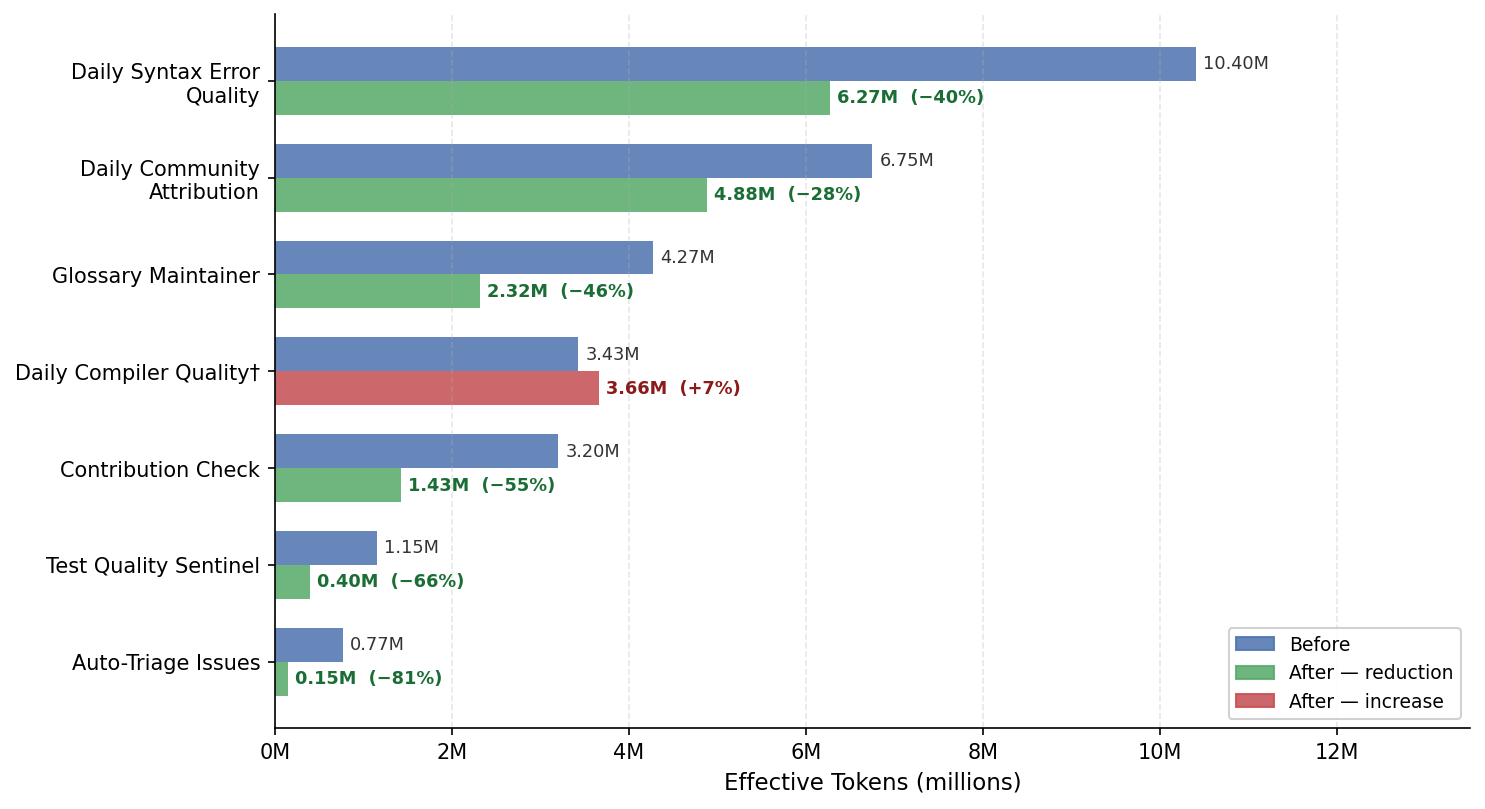
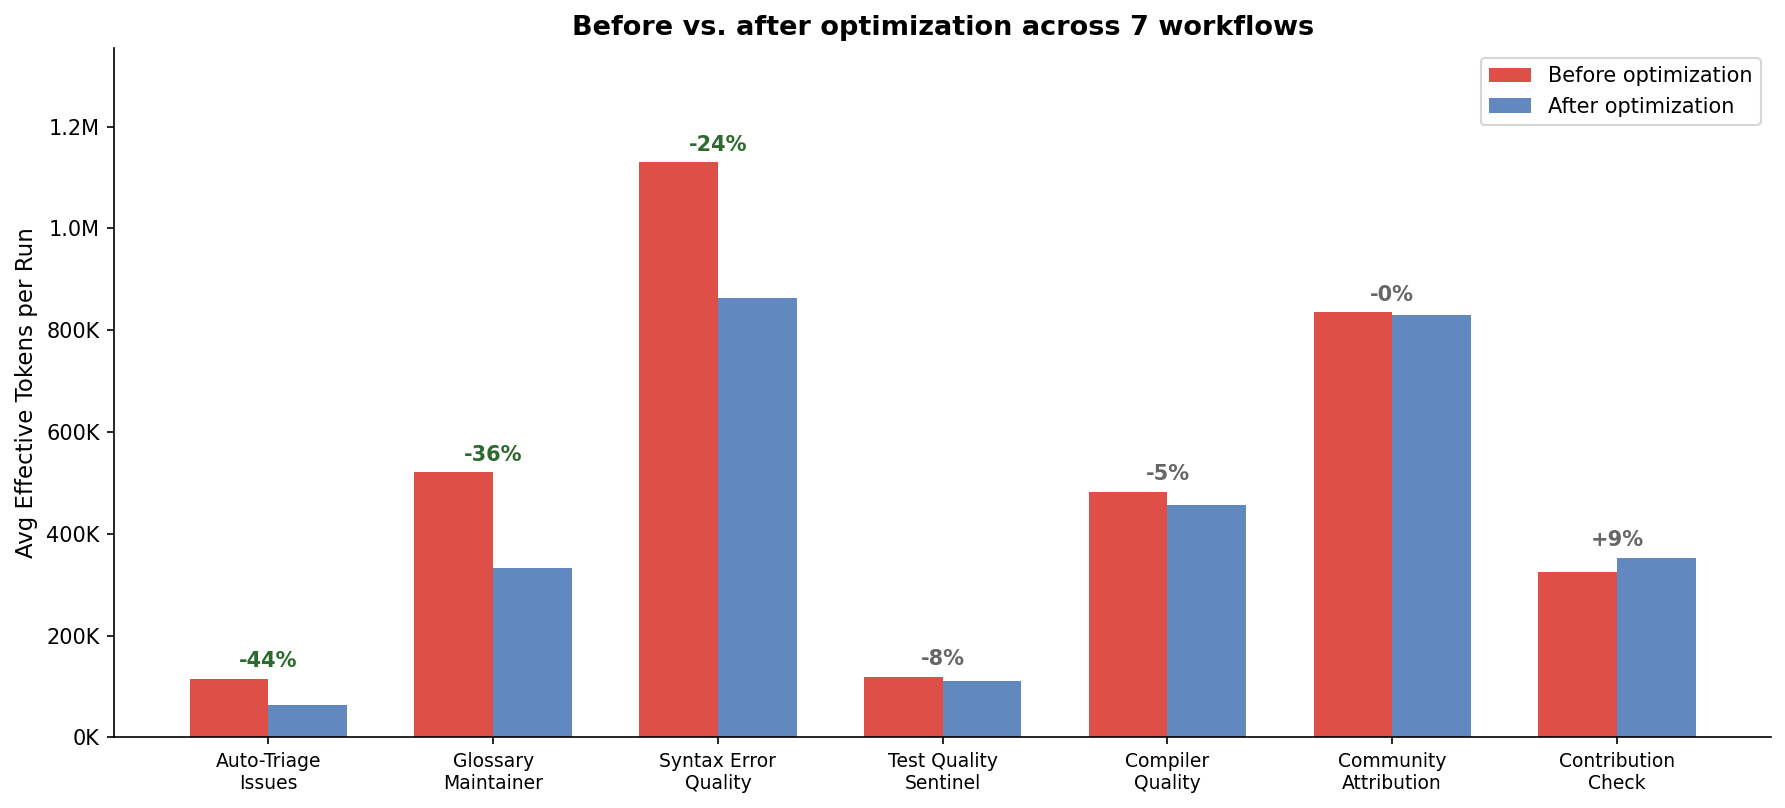
blog: update chart with corrected ET values and restore figure reference
Regenerate token-savings-chart-v2.png using actual ET formula values.
Y-axis now shows K/M range (64K-1.13M) instead of previous inflated
values. Percentage labels are color-coded: green for clear improvement,
gray for marginal, red for regression.

diff --git a/scripts/paper/blog-post-draft.md b/scripts/paper/blog-post-draft.md
@@ -81,6 +81,8 @@ where *m* is a model cost multiplier (Haiku = 0.25×, Sonnet = 1.0×, Opus = 5.0
 
 After deploying the auditor and optimizer across twelve production workflows in the gh-aw project, we downloaded token-usage artifacts from runs before and after each optimization and computed ET for each run. Seven of the nine implemented optimizations have enough post-fix run history to compare:
 
+![Before vs. after optimization across 7 workflows, measured in effective tokens](token-savings-chart-v2.png)
+
 | Workflow | Runs (pre) | Avg ET (pre) | Runs (post) | Avg ET (post) | Change |
 |---|---|---|---|---|---|
 | Auto-Triage Issues | 61 | 115 K | 62 | 64 K | **−44%** |
